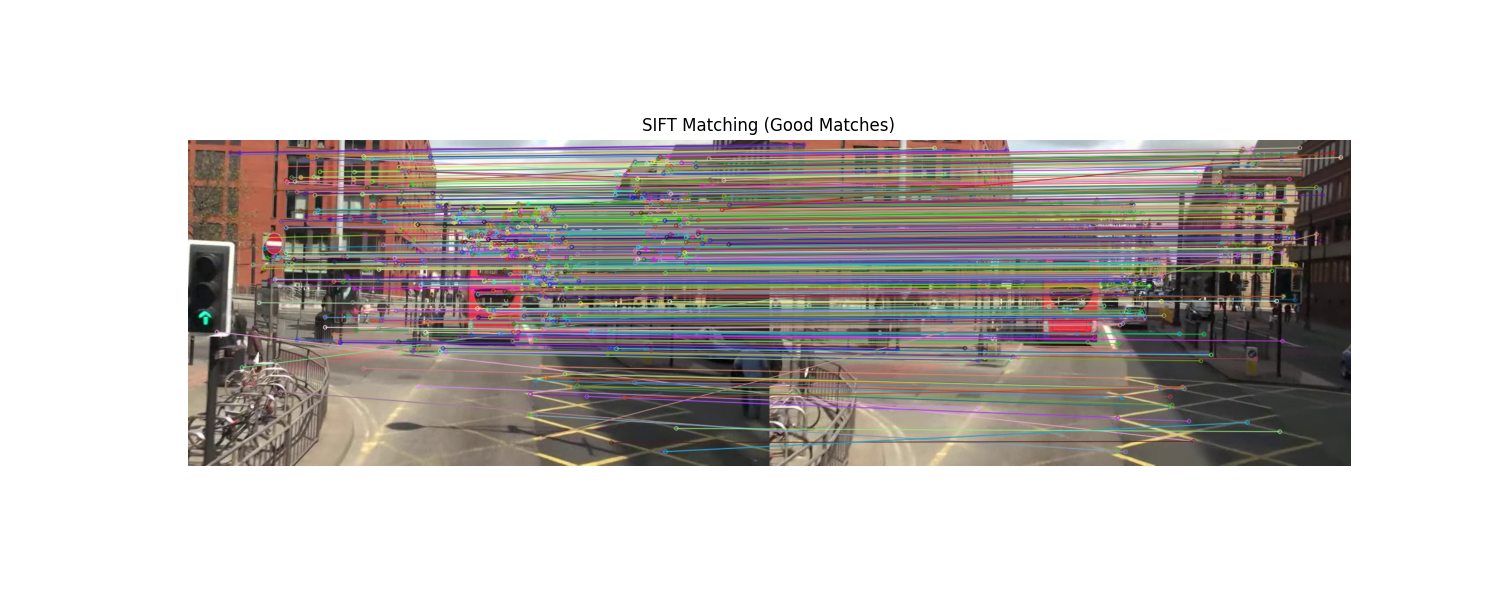
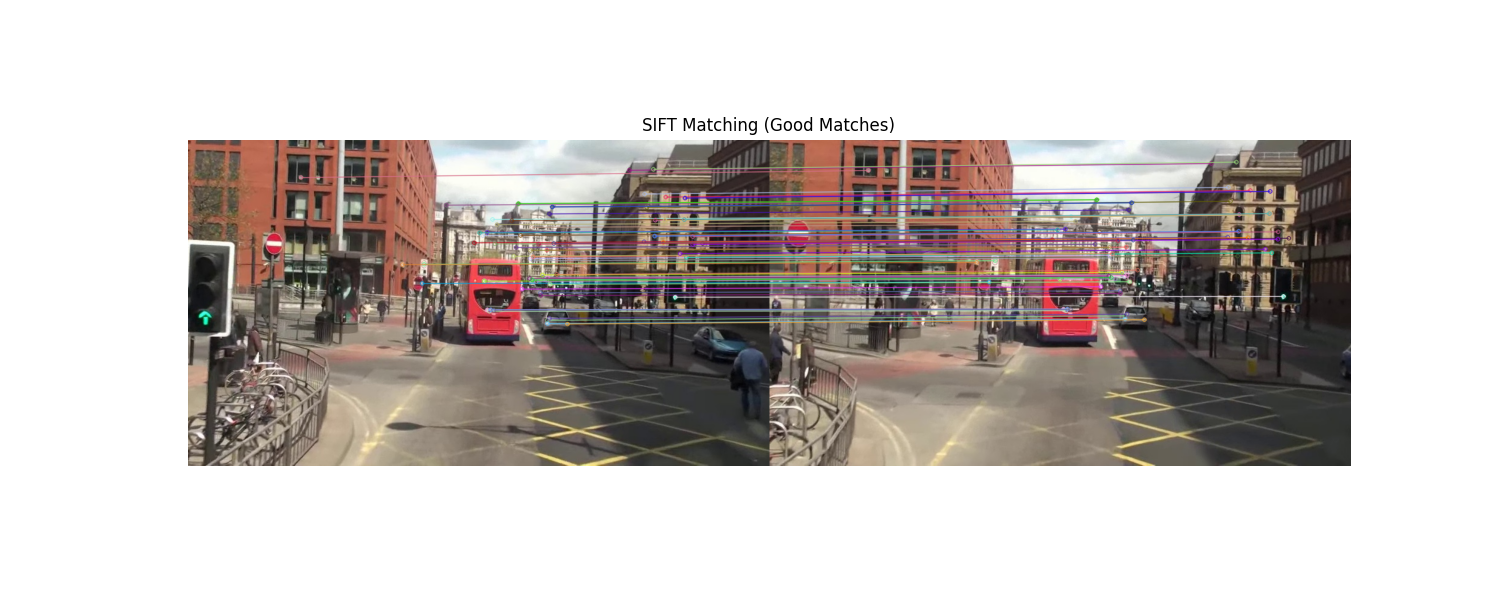
Fix image cropping issue in homography panorama by swapping image sequence

Changed region(s): [[0.1533, 0.24, 0.8893, 0.75]]

diff --git a/4주차_과제/02_sift_matching.py b/4주차_과제/02_sift_matching.py
@@ -13,7 +13,7 @@ img1_rgb = cv.cvtColor(img1, cv.COLOR_BGR2RGB)
 img2_rgb = cv.cvtColor(img2, cv.COLOR_BGR2RGB)
 
 # 2. SIFT 객체 생성
-sift = cv.SIFT_create()
+sift = cv.SIFT_create(nfeatures = 500 )
 
 # 3. 특징점 및 디스크립터 추출
 kp1, des1 = sift.detectAndCompute(img1, None)
@@ -26,7 +26,7 @@ matches = bf.knnMatch(des1, des2, k=2)
 
 # 좋은 매칭점만 선별 (최근접 이웃 거리 비율 테스트)
 good_matches = []
-ratio_thresh = 0.7  # 임계값 0.7
+ratio_thresh = 0.5  # 임계값 0.5
 for m, n in matches:
     if m.distance < ratio_thresh * n.distance:
         good_matches.append(m)

diff --git a/4주차_과제/03_homography_alignment.py b/4주차_과제/03_homography_alignment.py
@@ -3,8 +3,8 @@ import numpy as np
 import matplotlib.pyplot as plt
 
 # 1. 두 이미지 로드 (샘플 이미지 img1.jpg, img2.jpg 선택)
-img1 = cv.imread('images/img1.jpg')
-img2 = cv.imread('images/img2.jpg')
+img1 = cv.imread('images/img2.jpg') # 변환될 이미지 (오른쪽 사진)
+img2 = cv.imread('images/img1.jpg') # 기준 이미지 (왼쪽 사진)
 
 if img1 is None or img2 is None:
     print('Failed to load images.')
